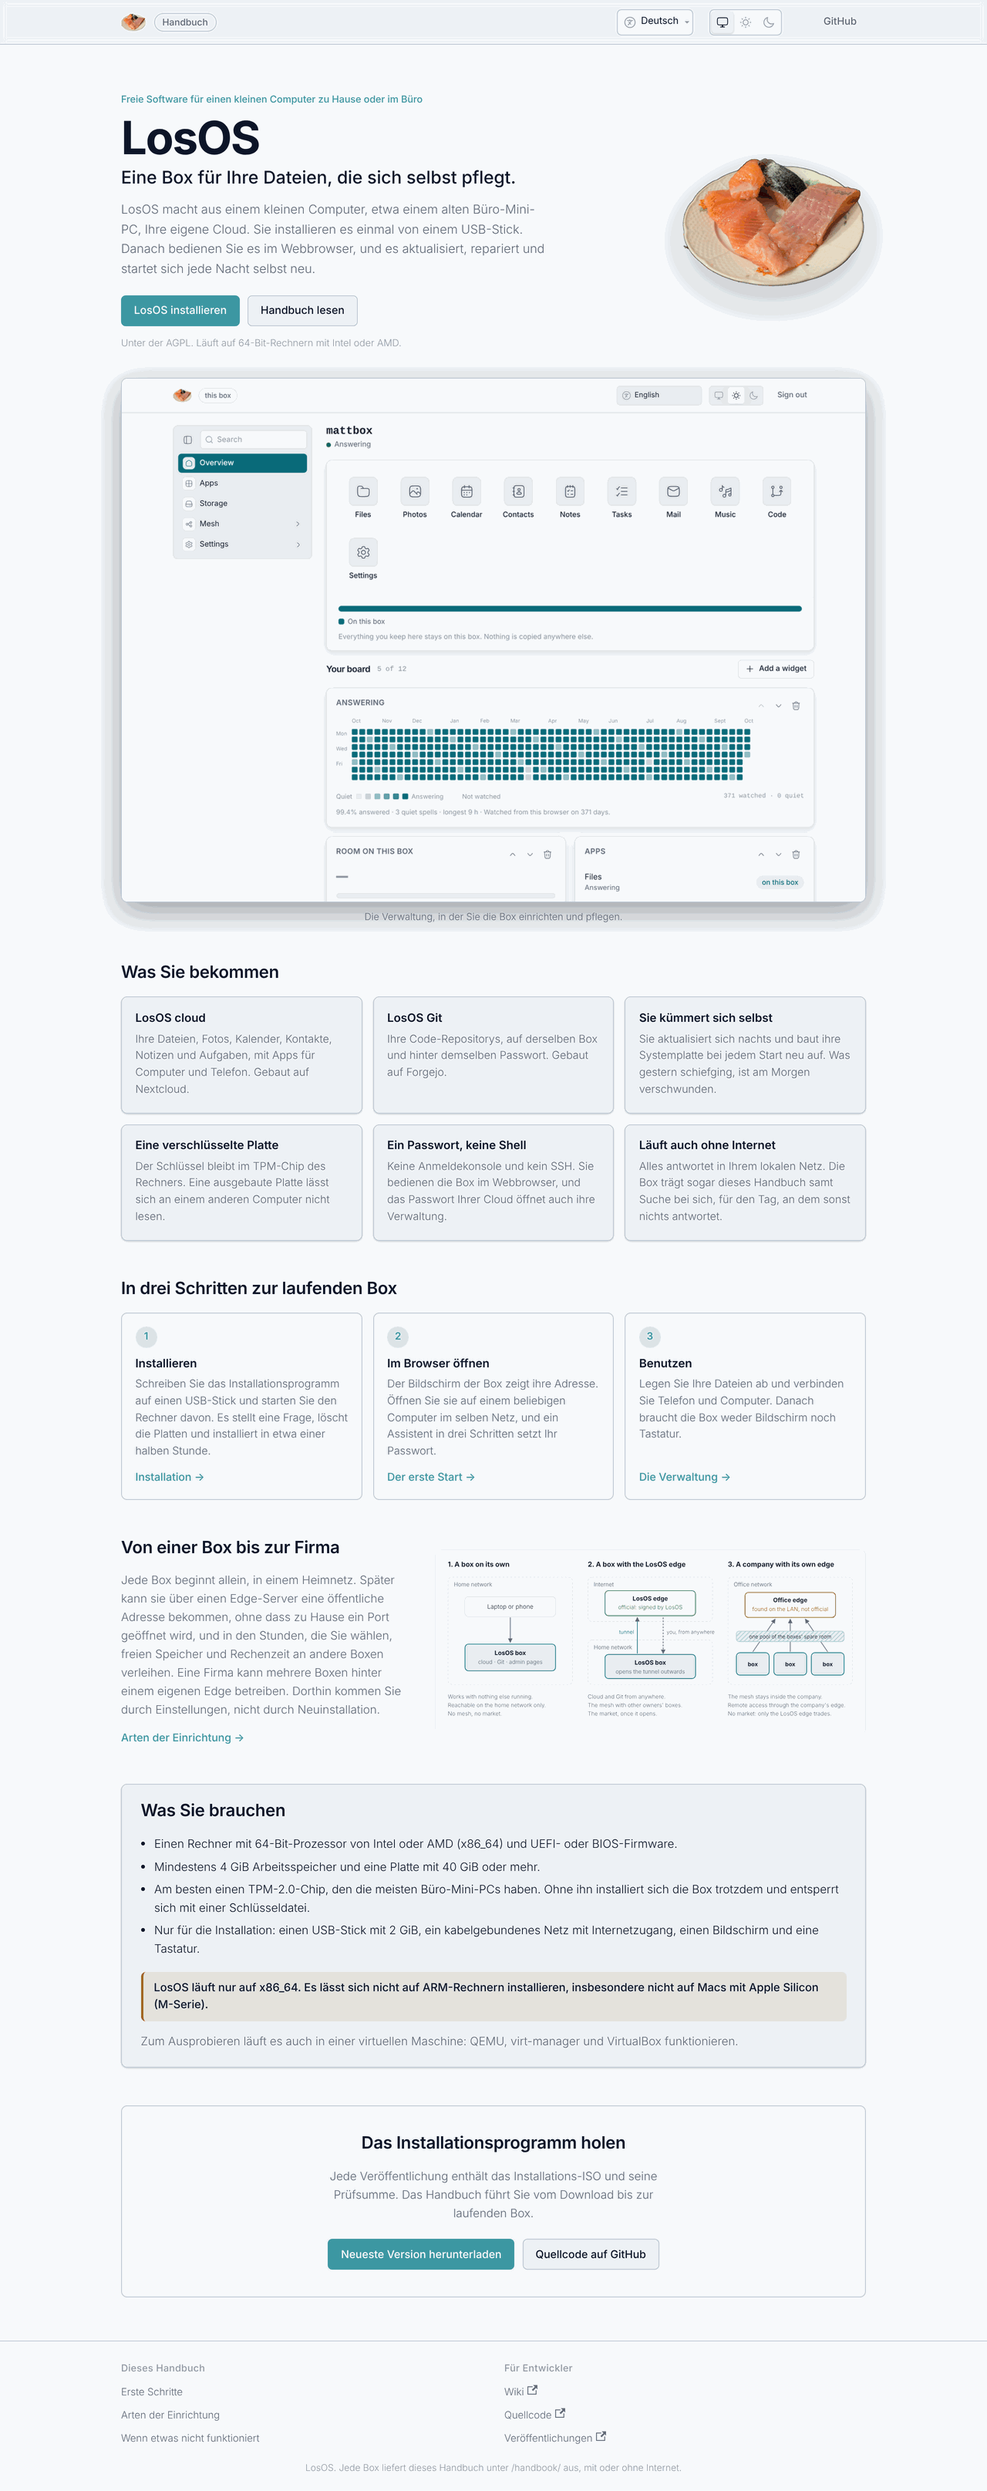
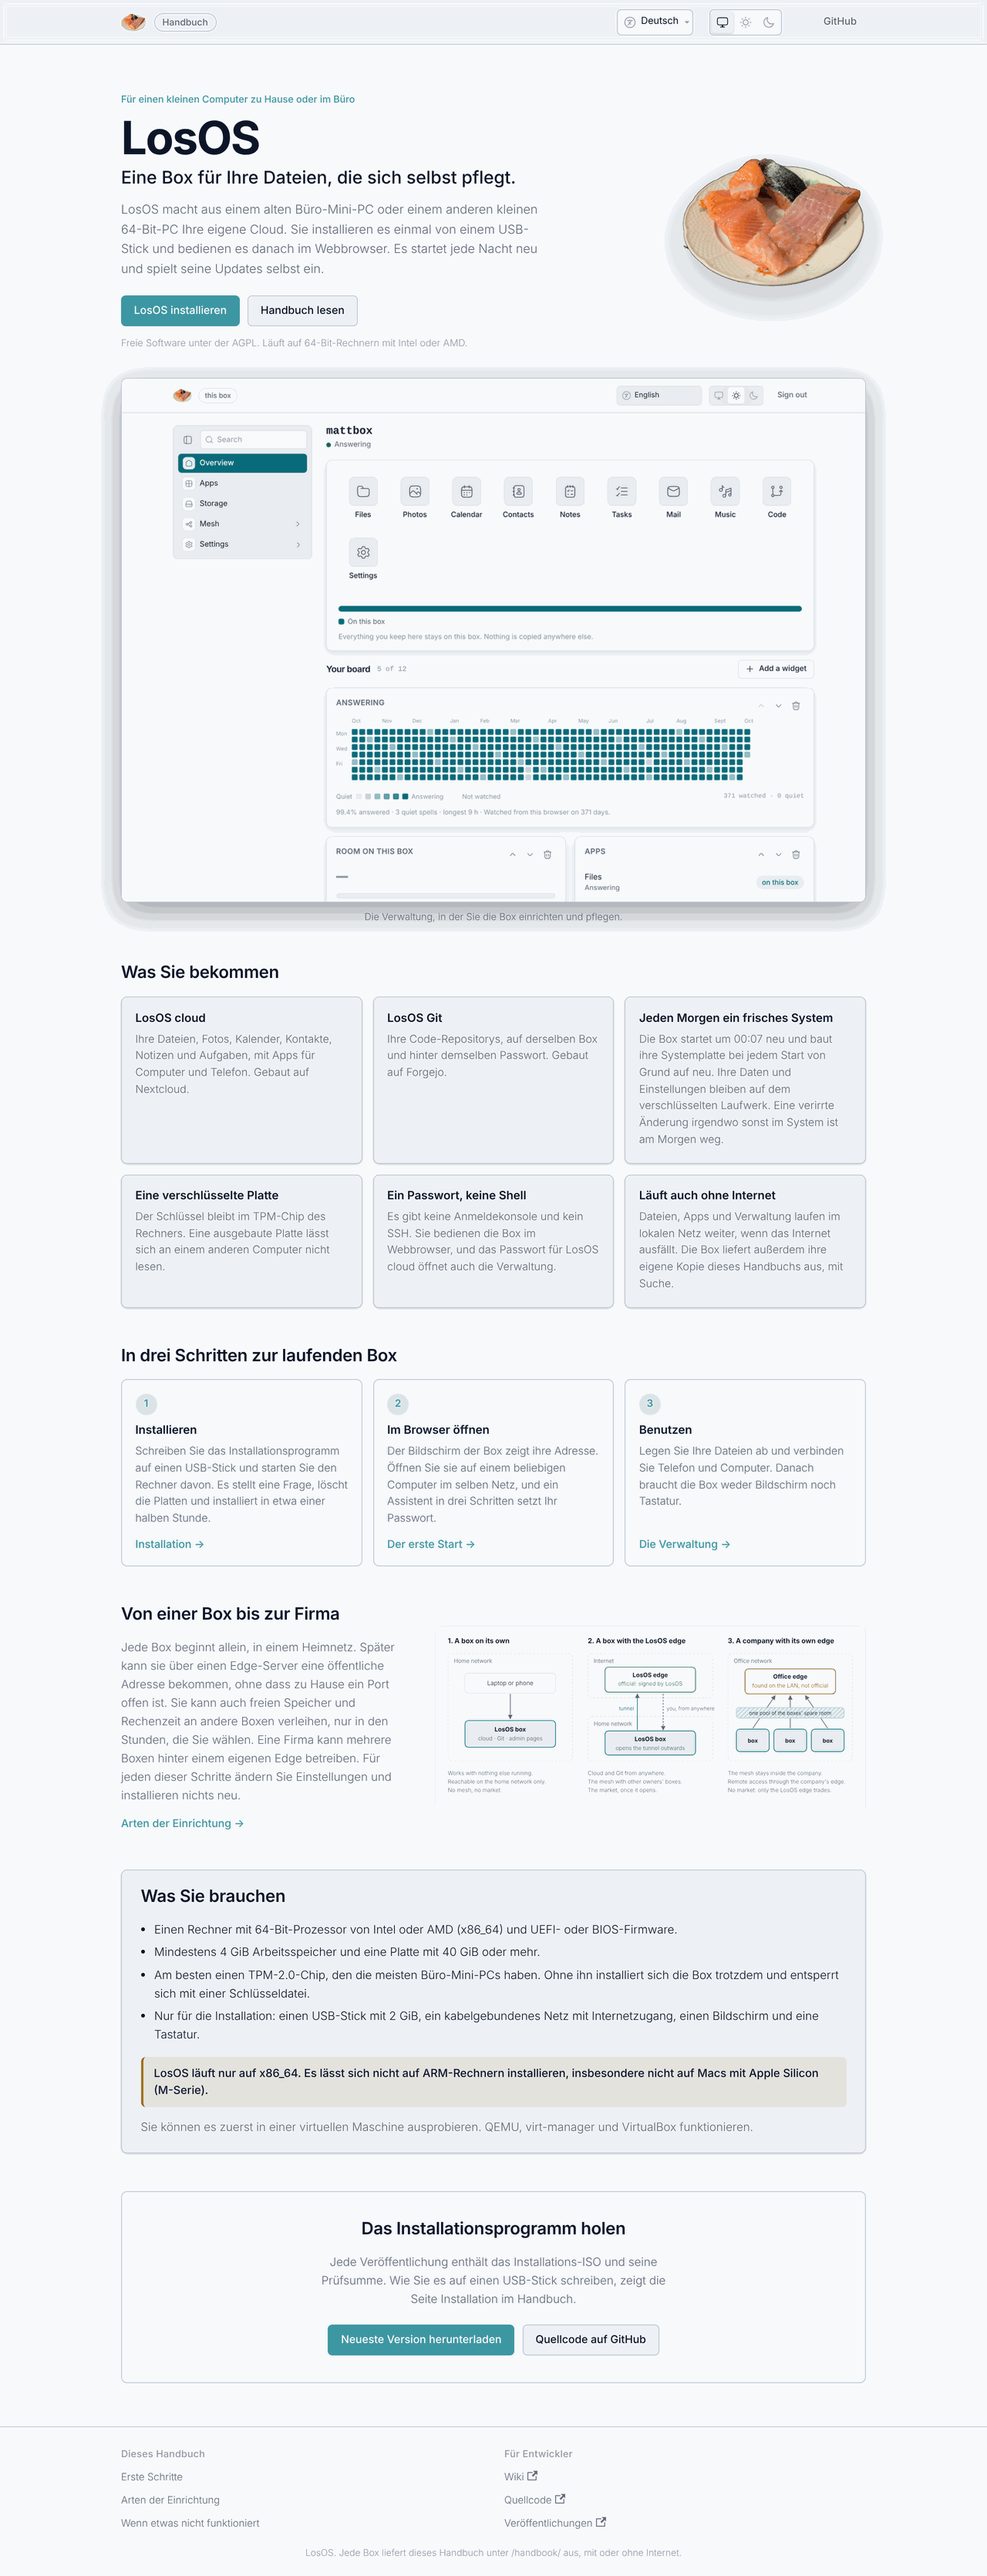
handbook: plainer landing page copy
The hero no longer promises the box repairs itself. It says what happens:
a restart every night and updates it installs itself. The fresh-system card
names 00:07 and what carries over, the offline card says what keeps
working, and long sentences are split. Slovak and German follow.

diff --git a/handbook/src/pages/index.tsx b/handbook/src/pages/index.tsx
@@ -48,12 +48,13 @@ const FEATURES: Feature[] = [
   },
   {
     title: (
-      <Translate id="losos.home.feature.self.title">It looks after itself</Translate>
+      <Translate id="losos.home.feature.self.title">A fresh system every morning</Translate>
     ),
     body: (
       <Translate id="losos.home.feature.self.body">
-        It updates itself at night and builds its system disk from scratch on
-        every boot. Whatever went wrong yesterday is gone by the morning.
+        The box restarts at 00:07 and rebuilds its system disk from scratch on
+        every boot. Your data and settings carry over on the encrypted volume.
+        A stray change anywhere else in the system is gone by morning.
       </Translate>
     ),
     to: '/manual/updates-and-reboots',
@@ -76,8 +77,9 @@ const FEATURES: Feature[] = [
     ),
     body: (
       <Translate id="losos.home.feature.password.body">
-        No login prompt and no SSH. You use the box from a web browser, and
-        the password of your cloud also opens its admin pages.
+        There is no login prompt and no SSH. You use the box from a web
+        browser, and the password you set for LosOS cloud also opens the admin
+        pages.
       </Translate>
     ),
     to: '/manual/sign-in-and-spare-key',
@@ -88,8 +90,9 @@ const FEATURES: Feature[] = [
     ),
     body: (
       <Translate id="losos.home.feature.lan.body">
-        Everything answers on your local network. The box even carries this
-        handbook, search included, for the day nothing else does.
+        Your files, your apps and the admin pages keep working over the local
+        network when the internet is down. The box also serves its own copy of
+        this handbook, with search.
       </Translate>
     ),
     to: '/troubleshooting/only-the-lan-works',
@@ -146,7 +149,7 @@ function Hero(): ReactNode {
       <div className={styles.heroText}>
         <p className={styles.eyebrow}>
           <Translate id="losos.home.eyebrow">
-            Free software for a small computer at home or at work
+            For a small computer at home or in the office
           </Translate>
         </p>
         <h1 className={styles.heroTitle}>LosOS</h1>
@@ -157,10 +160,10 @@ function Hero(): ReactNode {
         </p>
         <p className={styles.heroBody}>
           <Translate id="losos.home.body">
-            LosOS turns a small computer, such as an old office mini-PC, into
-            your own cloud. You install it once from a USB stick. After that
-            you use it from a web browser, and it updates, repairs and
-            restarts itself every night.
+            LosOS turns an old office mini-PC, or any small 64-bit PC, into
+            your own cloud. You install it once from a USB stick and then use
+            it from a web browser. It restarts every night and installs its
+            own updates.
           </Translate>
         </p>
         <div className={styles.actions}>
@@ -173,7 +176,8 @@ function Hero(): ReactNode {
         </div>
         <p className={styles.fine}>
           <Translate id="losos.home.fine">
-            AGPL licensed. Runs on 64-bit Intel and AMD machines.
+            Free software under the AGPL. Runs on 64-bit Intel and AMD
+            computers.
           </Translate>
         </p>
       </div>
@@ -264,11 +268,12 @@ function Setups(): ReactNode {
           </h2>
           <p className={styles.prose}>
             <Translate id="losos.home.setups.body">
-              Every box starts on its own, on a home network. Later it can get a
-              public address through an edge server, without opening a port at
-              home, and lend its spare disk and CPU to other boxes in the hours
-              you choose. A company can run several boxes behind its own edge.
-              You get there by changing settings, not by reinstalling.
+              Every box starts on its own, on a home network. Later it can get
+              a public address through an edge server, with no port opened at
+              home. It can also lend its spare disk and CPU to other boxes,
+              only in the hours you choose. A company can run several boxes
+              behind its own edge. Each of these is a change of settings, not
+              a reinstall.
             </Translate>
           </p>
           <Link className={styles.more} to="/types">
@@ -329,8 +334,8 @@ function Requirements(): ReactNode {
         </p>
         <p className={styles.prose}>
           <Translate id="losos.home.needs.vm">
-            To try it first, run it in a virtual machine: QEMU, virt-manager
-            and VirtualBox all work.
+            You can try it in a virtual machine first. QEMU, virt-manager and
+            VirtualBox all work.
           </Translate>
         </p>
       </div>
@@ -347,7 +352,7 @@ function Closing(): ReactNode {
       <p className={styles.prose}>
         <Translate id="losos.home.closing.body">
           Each release carries the installer ISO and its checksum. The
-          handbook takes you from the download to a running box.
+          handbook's Install page shows how to write it to a USB stick.
         </Translate>
       </p>
       <div className={styles.actions}>
@@ -369,7 +374,7 @@ export default function Home(): ReactNode {
       description={translate({
         id: 'losos.home.description',
         message:
-          'LosOS turns a small x86_64 computer into your own cloud for files, photos, calendar and code. It updates, repairs and restarts itself every night.',
+          'LosOS turns a small 64-bit PC into your own cloud for files, photos, calendar and code. It restarts every night and installs its own updates.',
       })}>
       <main className={styles.page}>
         <Hero />
